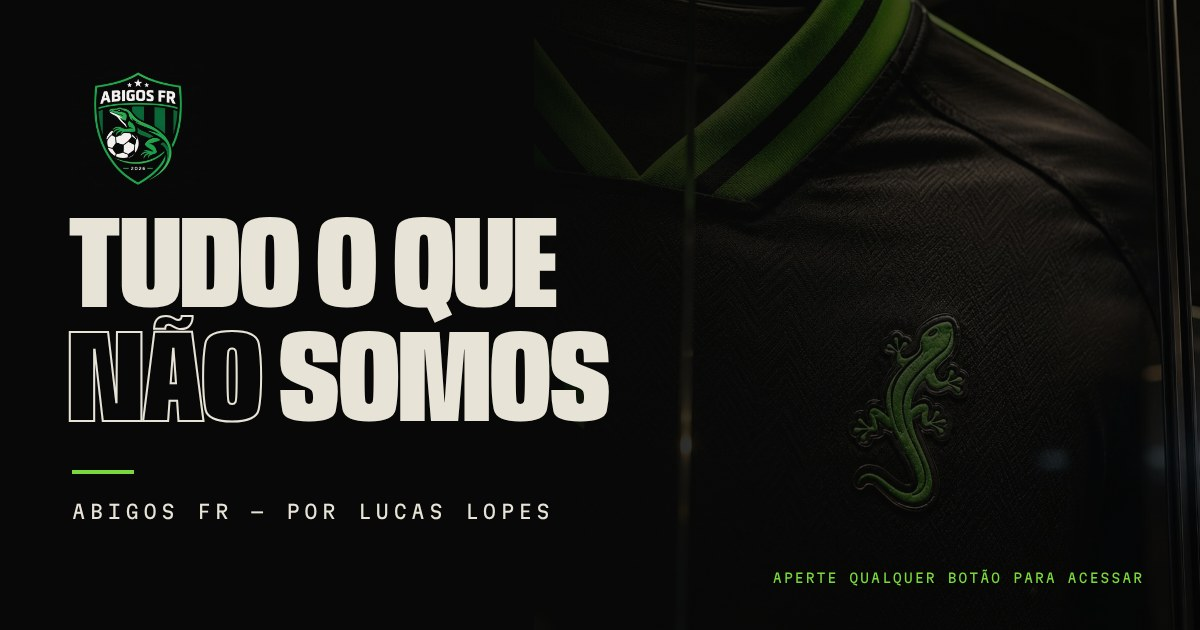
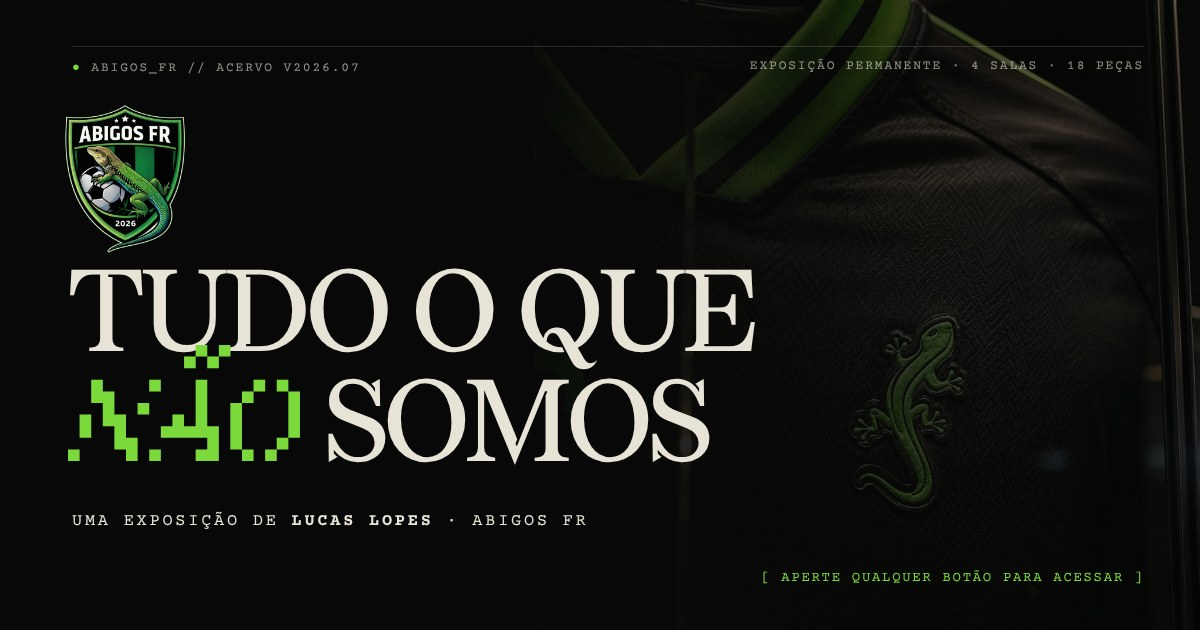
Dá íris ao calango, atualiza a imagem de compartilhamento e corrige detalhes
- Olho do calango com pupila redonda, anel dourado e íris marrom estriada (Tropidurus),
  voltado para fora da órbita.
- og.jpg refeito com o escudo oficial e a nova tipografia.
- Painel de partidas: a linha acesa ficava presa na partida anterior (transição de cor com
  steps); agora troca na hora, como um LED.
- Hero: os dados do Lucas sobem para o canto de cima, longe do calango de código.
- Relógio solar em matriz de pontos e acima dos cartões; o manifesto começa quando o palco
  aparece; botões do rodapé e da ficha em caixa alta; remove o plugin ScrambleText.

Claude-Session: https://claude.ai/code/session_019ktKzBs7xnT4azzruLDwDv

diff --git a/src/components/three/calango/material.ts b/src/components/three/calango/material.ts
@@ -97,6 +97,47 @@ vec3 cPerturb(vec3 surfPos, vec3 surfNorm, vec2 dHdxy, float faceDirection) {
 }
 `;
 
+/**
+ * Íris do calango, para a esfera do olho (mapa equirretangular: o polo +Y é o centro da pupila).
+ * Pupila redonda e preta, um anel dourado fino em volta dela e a íris marrom-escura com estrias,
+ * como no Tropidurus. O resto da esfera fica escondido na órbita.
+ */
+function irisTexture() {
+  const w = 256;
+  const h = 512;
+  const c = document.createElement('canvas');
+  c.width = w;
+  c.height = h;
+  const g = c.getContext('2d')!;
+  const row = (deg: number) => (deg / 180) * h;
+  g.fillStyle = '#030303';
+  g.fillRect(0, 0, w, h);
+  // íris: marrom-escura, mais quente perto da pupila, com estrias radiais (colunas no mapa)
+  const iris = g.createLinearGradient(0, row(17), 0, row(44));
+  iris.addColorStop(0, '#6b4420');
+  iris.addColorStop(0.35, '#3d2614');
+  iris.addColorStop(1, '#1a110a');
+  g.fillStyle = iris;
+  g.fillRect(0, row(17), w, row(44) - row(17));
+  for (let x = 0; x < w; x += 2) {
+    const k = Math.sin(x * 0.37) * 0.5 + Math.sin(x * 1.31 + 1.7) * 0.5;
+    g.fillStyle = k > 0 ? `rgba(160, 110, 55, ${0.12 * k})` : `rgba(0, 0, 0, ${-0.22 * k})`;
+    g.fillRect(x, row(19), 2, row(42) - row(19));
+  }
+  // anel dourado em volta da pupila e o contorno escuro da íris
+  g.fillStyle = '#c99a3e';
+  g.fillRect(0, row(15), w, row(18.5) - row(15));
+  g.fillStyle = '#0b0805';
+  g.fillRect(0, row(41), w, row(46) - row(41));
+  // pupila
+  g.fillStyle = '#010101';
+  g.fillRect(0, 0, w, row(15));
+  const t = new THREE.CanvasTexture(c);
+  t.colorSpace = THREE.SRGBColorSpace;
+  t.anisotropy = 4;
+  return t;
+}
+
 export function createCalangoMaterials(opts: { scales: boolean }) {
   const uniforms: CalangoUniforms = {
     uReveal: { value: 1 },
@@ -169,7 +210,8 @@ export function createCalangoMaterials(opts: { scales: boolean }) {
   body.customProgramCacheKey = () => 'calango-body-v1';
 
   const eye = new THREE.MeshPhysicalMaterial({
-    color: new THREE.Color('#020403'),
+    color: new THREE.Color('#ffffff'),
+    map: irisTexture(),
     metalness: 0,
     roughness: 0.035,
     clearcoat: 1,

diff --git a/src/components/three/Stage.tsx b/src/components/three/Stage.tsx
@@ -145,6 +145,8 @@ function CalangoActor({ asset, wrapperRef, high }: { asset: CalangoAsset; wrappe
       const c = new THREE.Vector3(...e.center).sub(headRest);
       const eye = new THREE.Mesh(new THREE.SphereGeometry(e.radius, 32, 24), mats.eye);
       eye.position.copy(c);
+      // a pupila (polo +Y da esfera) olha para fora da órbita
+      eye.quaternion.setFromUnitVectors(new THREE.Vector3(0, 1, 0), new THREE.Vector3(...e.axis).normalize());
       eye.frustumCulled = false;
       head.add(eye);
       const lid = new THREE.Mesh(new THREE.SphereGeometry(e.radius * 1.1, 28, 20), mats.lid);
@@ -219,6 +221,7 @@ function CalangoActor({ asset, wrapperRef, high }: { asset: CalangoAsset; wrappe
   useEffect(
     () => () => {
       build.mats.body.dispose();
+      build.mats.eye.map?.dispose();
       build.mats.eye.dispose();
       build.mats.lid.dispose();
     },

diff --git a/src/components/piece/PieceSheet.tsx b/src/components/piece/PieceSheet.tsx
@@ -116,13 +116,13 @@ export function PieceSheet() {
       </div>
 
       <nav className="sheet__nav t-mono" aria-label="Navegação do acervo">
-        <button type="button" onClick={() => go(-1)} aria-label="Peça anterior">
+        <button type="button" className="t-mono" onClick={() => go(-1)} aria-label="Peça anterior">
           ← Anterior
         </button>
         <span aria-hidden="true">
           {String(index + 1).padStart(2, '0')} / {String(VISIBLE.length).padStart(2, '0')}
         </span>
-        <button type="button" onClick={() => go(1)} aria-label="Próxima peça">
+        <button type="button" className="t-mono" onClick={() => go(1)} aria-label="Próxima peça">
           Próxima →
         </button>
       </nav>

diff --git a/src/components/sections/SangueFrio.tsx b/src/components/sections/SangueFrio.tsx
@@ -374,7 +374,11 @@ function DayGallery({ pieces }: { pieces: Piece[] }) {
         <div ref={sunRef} className="day__sun" aria-hidden="true" />
         <div className="day__ground" aria-hidden="true" />
         <p className="day__clock t-mono" aria-hidden="true">
-          Hora solar <b ref={clockRef}>04:50</b> <i>·</i> <span ref={phaseRef}>Amanhecer</span>
+          Hora solar{' '}
+          <b ref={clockRef} className="t-led">
+            04:50
+          </b>{' '}
+          <i>·</i> <span ref={phaseRef}>Amanhecer</span>
         </p>
         <div ref={trackRef} className="day__track">
           {pieces.map((p, i) => (

diff --git a/src/components/sections/Outro.tsx b/src/components/sections/Outro.tsx
@@ -233,7 +233,7 @@ export function Closing() {
         </span>
         <span>Direção de arte e geração: Lucas Lopes, com Higgsfield</span>
         <span>Trilha da exposição: Tame Impala, “New Person, Same Old Mistakes” (instrumental)</span>
-        <button type="button" onClick={() => scrollToTarget(0)}>
+        <button type="button" className="t-mono" onClick={() => scrollToTarget(0)}>
           Voltar ao início ↑
         </button>
       </footer>

diff --git a/src/components/sections/sangue-frio.css b/src/components/sections/sangue-frio.css
@@ -382,7 +382,7 @@
 .day__clock {
   position: absolute;
   z-index: 2;
-  top: calc(var(--hud) * 3.4);
+  top: calc(var(--hud) * 2.5);
   left: var(--gutter);
   margin: 0;
   color: var(--fg-dim);
@@ -390,11 +390,10 @@
 }
 
 .day__clock b {
-  font-weight: 500;
   color: var(--fg);
   font-variant-numeric: tabular-nums;
-  font-size: 1.6em;
-  vertical-align: -0.12em;
+  font-size: 2em;
+  vertical-align: -0.16em;
   padding: 0 0.2em;
 }
 

diff --git a/src/lib/scroll.ts b/src/lib/scroll.ts
@@ -1,10 +1,9 @@
 import Lenis from 'lenis';
 import { gsap } from 'gsap';
 import { ScrollTrigger } from 'gsap/ScrollTrigger';
-import { ScrambleTextPlugin } from 'gsap/ScrambleTextPlugin';
 import { reducedMotion } from './store';
 
-gsap.registerPlugin(ScrollTrigger, ScrambleTextPlugin);
+gsap.registerPlugin(ScrollTrigger);
 
 let lenis: Lenis | null = null;
 

diff --git a/src/components/sections/hero.css b/src/components/sections/hero.css
@@ -104,8 +104,11 @@
   line-height: 1.08;
 }
 
+/* no alto, à direita: embaixo fica o calango de código */
 .hero__overlay--right {
   right: var(--gutter);
+  top: calc(var(--hud) * 3.2);
+  bottom: auto;
   display: grid;
   gap: 4px;
   text-align: right;

diff --git a/src/components/sections/Manifesto.tsx b/src/components/sections/Manifesto.tsx
@@ -91,7 +91,7 @@ export function Manifesto() {
     });
     const seen = ScrollTrigger.create({
       trigger: section,
-      start: 'top 70%',
+      start: 'top 45%',
       end: 'bottom 30%',
       onToggle: (self) => setLive(self.isActive),
     });

diff --git a/src/components/sections/rooms.css b/src/components/sections/rooms.css
@@ -313,7 +313,6 @@
   padding: 0.42em 0;
   color: var(--led-dim);
   cursor: pointer;
-  transition: color 0.2s steps(2);
 }
 
 .led__row.is-on {
